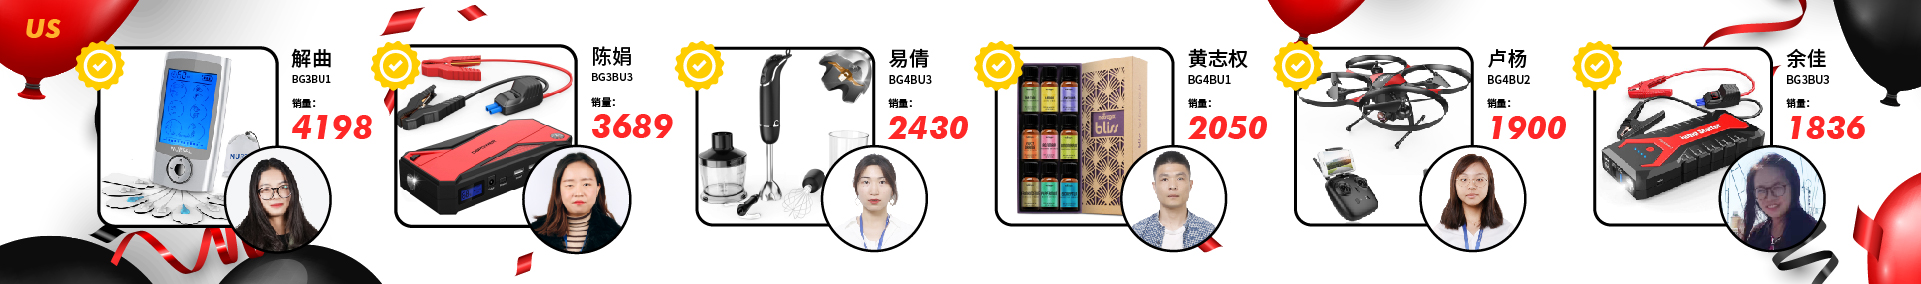
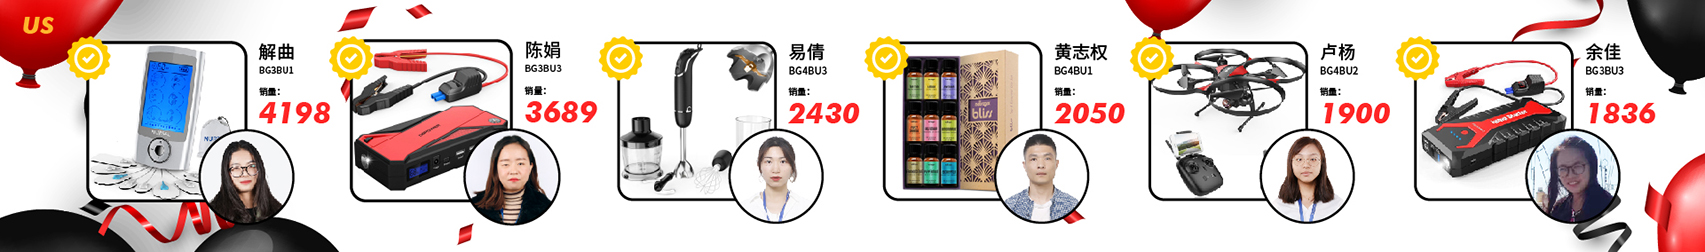
修改轮播图的样式

diff --git a/public/css/common.css b/public/css/common.css
@@ -69,12 +69,10 @@ td.details-control.disabled {
 /*图片轮播样式*/
 .slider {
     position: relative;
-    height: 285px;
+    height: 253px;
     min-width: 1004px;
     width: 100%;
-    /*width:1920px;*/
     overflow: hidden;
-    /*margin-left: 200px;*/
 }
 .slider .slider-pointer {
     position: absolute;
